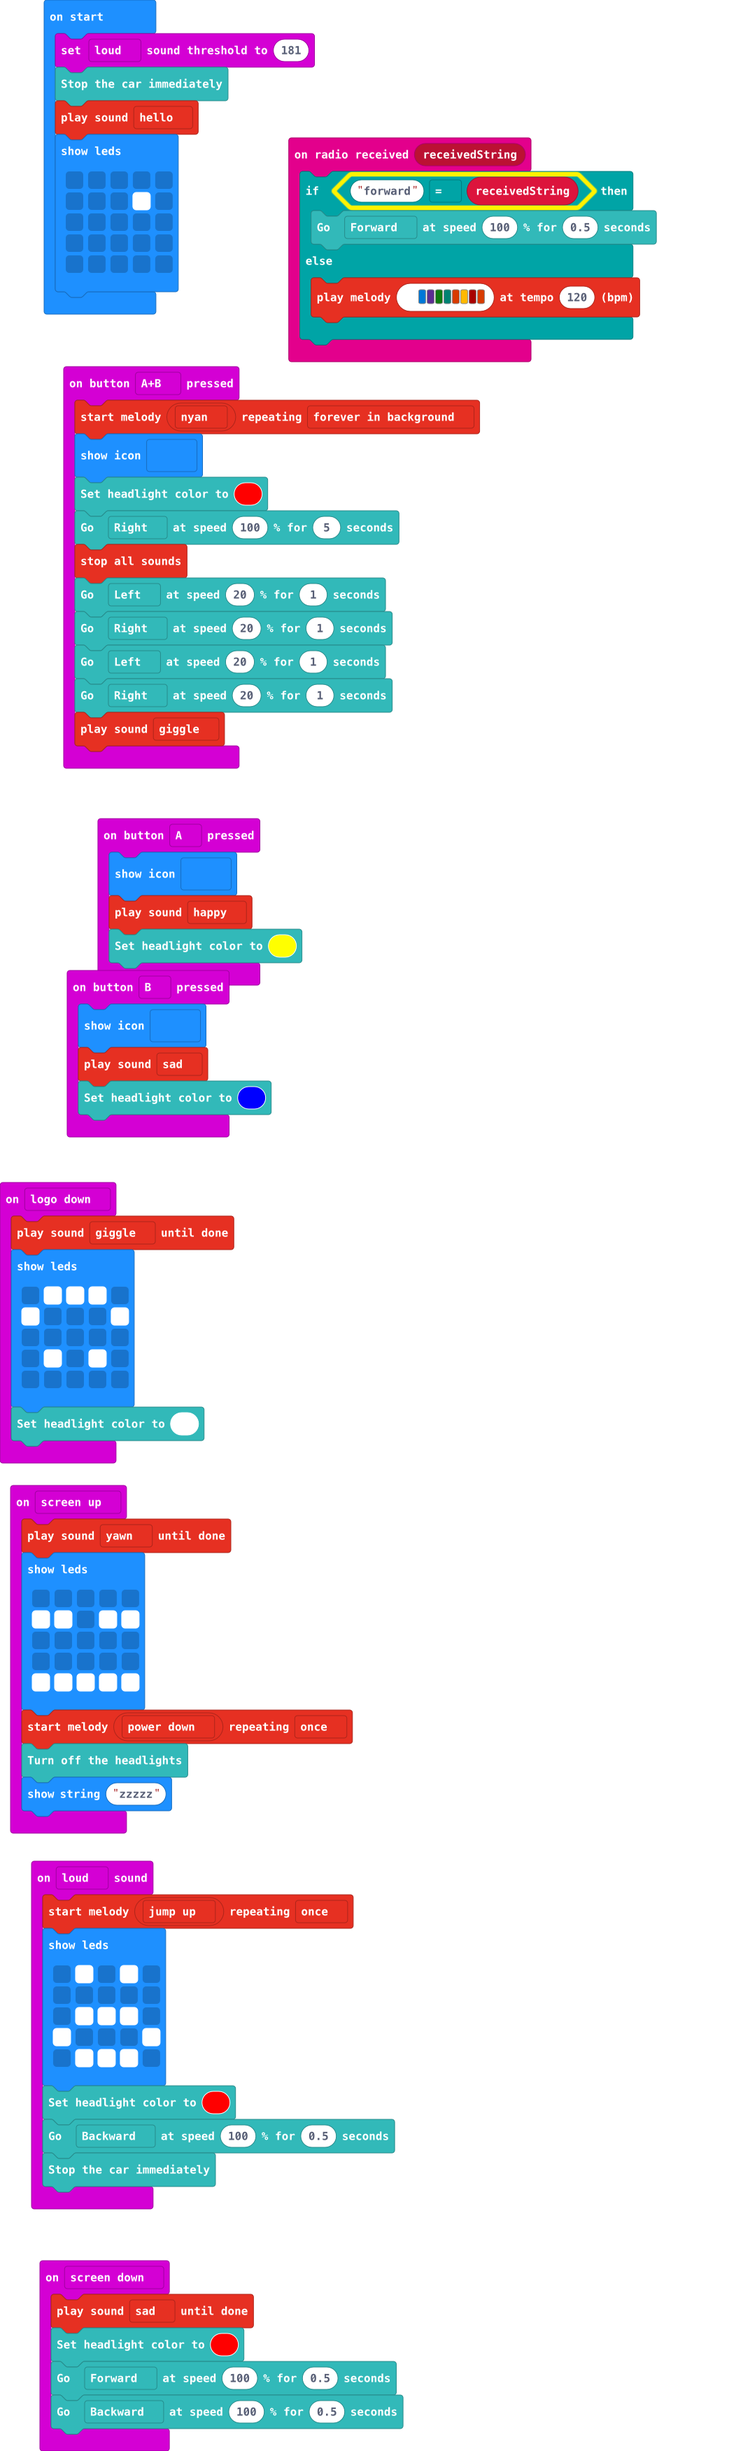
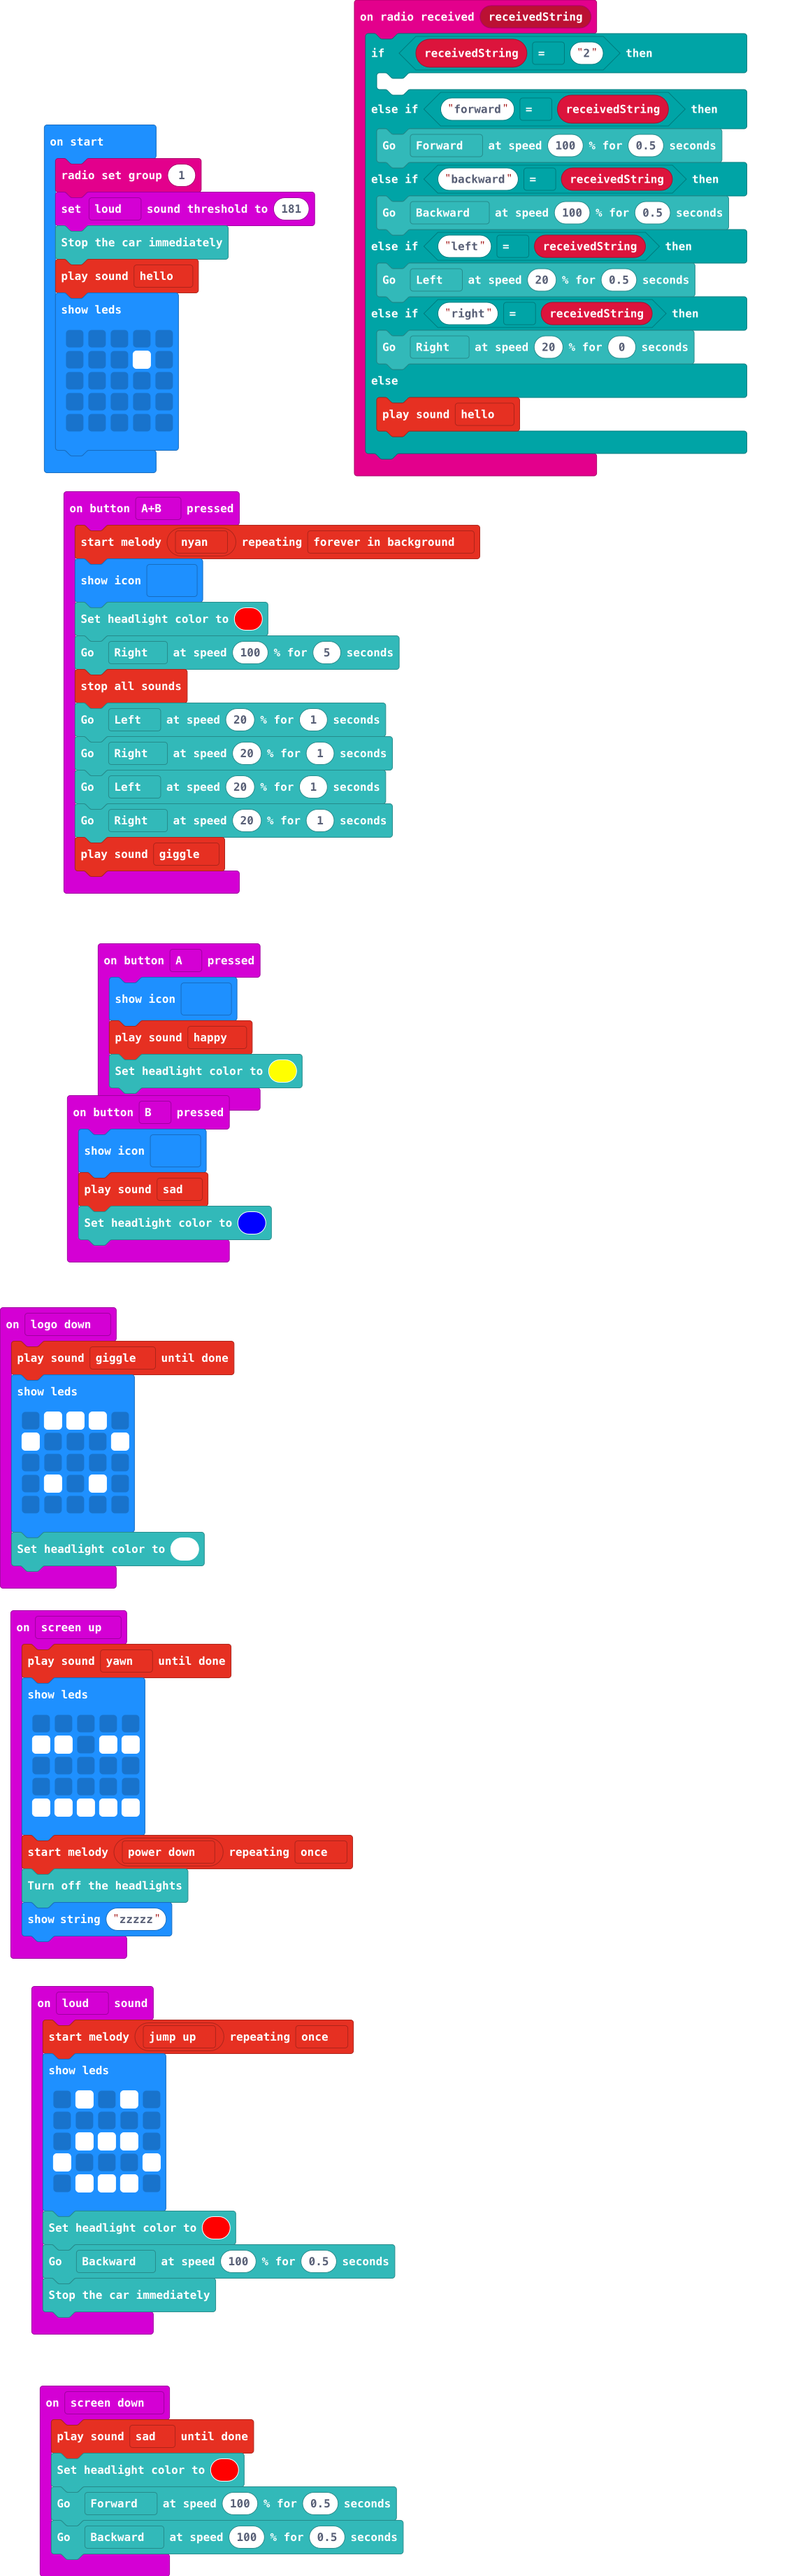
Update main.blocks, main.ts

Changed region(s): [[0.0, 0.0, 0.952, 1.0]]

diff --git a/main.ts b/main.ts
@@ -48,10 +48,18 @@ input.onButtonPressed(Button.AB, function () {
     soundExpression.giggle.play()
 })
 radio.onReceivedString(function (receivedString) {
-    if ("forward" == receivedString) {
+    if (receivedString == "2") {
+    	
+    } else if ("forward" == receivedString) {
         TPBot.setTravelTime(TPBot.DriveDirection.Forward, 100, 0.5)
+    } else if ("backward" == receivedString) {
+        TPBot.setTravelTime(TPBot.DriveDirection.Backward, 100, 0.5)
+    } else if ("left" == receivedString) {
+        TPBot.setTravelTime(TPBot.DriveDirection.Left, 20, 0.5)
+    } else if ("right" == receivedString) {
+        TPBot.setTravelTime(TPBot.DriveDirection.Right, 20, 0)
     } else {
-        music.playMelody("E D G F B A C5 B ", 120)
+        soundExpression.hello.play()
     }
 })
 input.onButtonPressed(Button.B, function () {
@@ -70,6 +78,7 @@ input.onGesture(Gesture.LogoDown, function () {
         `)
     TPBot.headlightColor(0xffffff)
 })
+radio.setGroup(1)
 input.setSoundThreshold(SoundThreshold.Loud, 181)
 TPBot.stopCar()
 soundExpression.hello.play()
